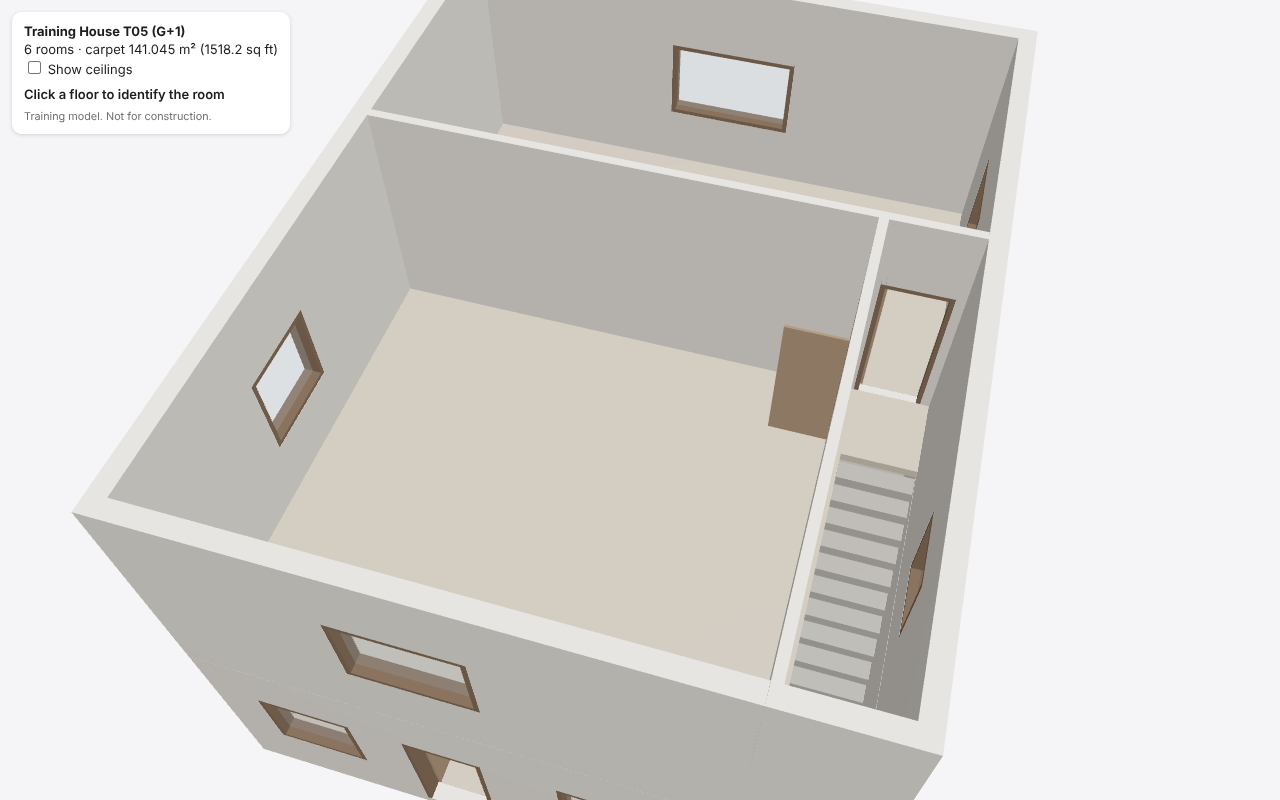
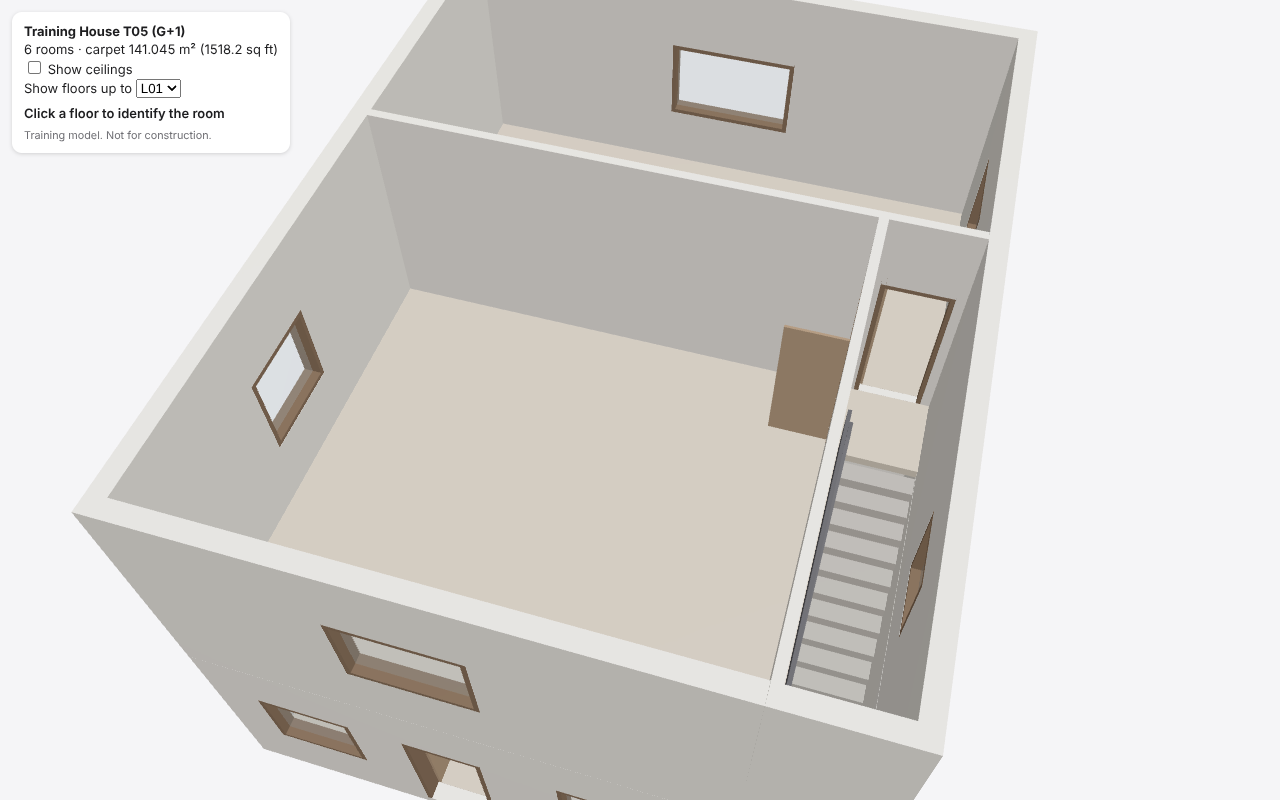
Stair balustrades on every edge with a drop; viewer floor selector
Panels 50 mm x 0.90 m above the treads (stepped bottom, top along the
pitch) on stair edges not against a wall, not the foot and not the top
riser, plus between dog-leg flights without a well. Walk tests add a
line out over each drop (T05 31/31, T06 37/37; none pass without the
panels). The viewer gets a floor selector (?upto=L00) and the browser
check a dollhouse per lower storey. 85 tests.

Claude-Session: https://claude.ai/code/session_01BXg1nWSkXAdbFx49JcxH2B

Changed region(s): [[0.0, 0.0938, 0.1875, 0.1875], [0.625, 0.5312, 0.6875, 0.7812], [0.5938, 0.7812, 0.625, 0.8438]]

diff --git a/viewer/index.html b/viewer/index.html
@@ -25,11 +25,12 @@
   <b id="title">plan3d viewer</b>
   <div id="info">Loading…</div>
   <label><input type="checkbox" id="ceilings"> Show ceilings</label>
+  <div id="floorwrap" hidden><label>Show floors up to <select id="floor"></select></label></div>
   <div id="room">Click a floor to identify the room</div>
   <small>Training model. Not for construction.</small>
 </div>
 <script type="module">
-// Usage: index.html?model=<glb url>&manifest=<manifest.json url>&view=dollhouse|exterior
+// Usage: index.html?model=<glb url>&manifest=<manifest.json url>&view=dollhouse|exterior[&upto=L00]
 import * as THREE from 'three';
 import { GLTFLoader } from 'three/addons/loaders/GLTFLoader.js';
 import { OrbitControls } from 'three/addons/controls/OrbitControls.js';
@@ -73,10 +74,27 @@ gltf.scene.traverse(o => {
     transparent: o.material.transparent,
   });
 });
+// Multi-storey: show the levels up to the chosen one (mesh names start with the level id)
+const levelOf = o => o.name.split('_')[0];
+const levels = [...new Set(meshes.map(m => m.name.split('_')[0]))].sort();
+const shown = [];
+gltf.scene.traverse(o => o.isMesh && shown.push(o));
+const setUpTo = lvl => shown.forEach(o => (o.visible = levelOf(o) <= lvl &&
+                                          (!o.name.includes('_CEILING_') || document.getElementById('ceilings').checked)));
+if (levels.length > 1) {
+  const sel = document.getElementById('floor');
+  for (const l of levels) sel.add(new Option(l, l));
+  sel.value = q.get('upto') && levels.includes(q.get('upto')) ? q.get('upto') : levels.at(-1);
+  sel.onchange = () => { setUpTo(sel.value); render(); };
+  document.getElementById('floorwrap').hidden = false;
+}
 const setCeilings = on => ceilings.forEach(c => (c.visible = on));
-document.getElementById('ceilings').onchange = e => { setCeilings(e.target.checked); render(); };
+document.getElementById('ceilings').onchange = () => {
+  setUpTo(levels.length > 1 ? document.getElementById('floor').value : levels[0]); render();
+};
 setCeilings(view === 'exterior');
 document.getElementById('ceilings').checked = view === 'exterior';
+if (levels.length > 1) setUpTo(document.getElementById('floor').value);
 
 const box = new THREE.Box3().setFromObject(gltf.scene);
 const size = box.getSize(new THREE.Vector3()), center = box.getCenter(new THREE.Vector3());

diff --git a/plan3d/stairs.py b/plan3d/stairs.py
@@ -221,3 +221,80 @@ def guard_region(sg: StairGeom, up_layout) -> Polygon:
     arrival = Polygon([t - a, t + a, t + a + out, t - a + out])
     floor = unary_union(list(up_layout.room_regions.values()))
     return band.difference(arrival).difference(up_layout.footprint).intersection(floor)
+
+
+def surface_z(sg: StairGeom, xy) -> float | None:
+    """Height (absolute) of the stair's walking surface at a plan point, or
+    None outside the stair."""
+    p = Point(xy)
+    for f in sg.flights:
+        if sg.flight_rect(f).buffer(1e-9).contains(p):
+            s = float(np.dot(np.asarray(xy) - f.foot, f.u))
+            k = min(max(int(s // sg.going), 0), f.risers - 2)
+            return sg.ffl + sg.riser * (f.first + k + 1)
+    if sg.landing_rect is not None and sg.landing_rect.buffer(1e-9).contains(p):
+        return sg.ffl + sg.riser * sg.flights[1].first
+    return None
+
+
+def balustrade_edges(sg: StairGeom, low_layout) -> list[tuple[np.ndarray, np.ndarray, np.ndarray]]:
+    """(start, end, inward normal) of every stair edge with a drop beside it:
+    outline edges that are not against a wall, not the foot of the first
+    flight and not the top riser; and, on a dog-leg without a well, the side
+    of the second flight above the first."""
+    edges = []
+    poly = sg.footprint.simplify(0)
+    ring = [np.asarray(c) for c in poly.exterior.coords]
+    entry = LineString([sg.foot - sg.across * sg.width / 2, sg.foot + sg.across * sg.width / 2])
+    a = np.array([-sg.top_u[1], sg.top_u[0]]) * sg.width / 2
+    arrival = LineString([sg.top - a, sg.top + a])
+    for p, q in zip(ring, ring[1:]):
+        m, d = (p + q) / 2, (q - p) / np.linalg.norm(q - p)
+        n = np.array([-d[1], d[0]])
+        if not poly.contains(Point(m + n * 0.01)):
+            n = -n                                         # n points into the stair
+        if entry.distance(Point(m)) < 1e-6 or arrival.distance(Point(m)) < 1e-6:
+            continue
+        samples = [p + (q - p) * t for t in (0.1, 0.5, 0.9)]
+        if all(low_layout.footprint.buffer(1e-6).contains(Point(x - n * 0.05)) for x in samples):
+            continue                                       # a wall closes this side
+        edges.append((p, q, n))
+    if sg.kind == "dogleg" and sg.gap == 0:
+        f2 = sg.flights[1]
+        n_in = sg.across * sg.side                     # from the first flight into the second
+        edge = f2.foot - n_in * sg.width / 2
+        edges.append((edge, edge + f2.u * sg.flight_run(f2), n_in))
+    return edges
+
+
+def balustrades(sg: StairGeom, low_layout) -> list[tuple[str, m3d.Manifold]]:
+    """A GUARD_THICKNESS panel just inside each edge with a drop, standing on
+    the treads (stepped bottom) and GUARD_HEIGHT above them along the pitch.
+    One solid per edge (no unions, L-026); where two edges meet, the later
+    one stops short of the corner so they do not overlap."""
+    out, ends = [], []
+    for i, (p, q, n) in enumerate(balustrade_edges(sg, low_layout)):
+        length = float(np.linalg.norm(q - p))
+        d = (q - p) / length
+        t0 = GUARD_THICKNESS if any(np.allclose(p, e) for e in ends) else 0.0
+        t1 = length - (GUARD_THICKNESS if any(np.allclose(q, e) for e in ends) else 0.0)
+        ends += [p, q]
+        cuts = {t0, t1}
+        for f in sg.flights:
+            for k in range(f.risers):
+                cuts.add(float(np.dot(f.foot + f.u * sg.going * k - p, d)))
+        cuts = sorted(t for t in cuts if t0 - 1e-9 <= t <= t1 + 1e-9)
+        zs = [surface_z(sg, p + d * (a + b) / 2 + n * GUARD_THICKNESS / 2) for a, b in zip(cuts, cuts[1:])]
+        if not zs or any(z is None for z in zs):
+            continue
+        z0 = sg.ffl
+        bottom = [pt for (a, b), z in zip(zip(cuts, cuts[1:]), zs) for pt in ((a, z - z0), (b, z - z0))]
+        top = [(t, max(zs[max(j - 1, 0)], zs[min(j, len(zs) - 1)]) - z0 + GUARD_HEIGHT)
+               for j, t in enumerate(cuts)]
+        profile = m3d.CrossSection([np.asarray(bottom + top[::-1])], m3d.FillRule.EvenOdd)
+        panel = m3d.Manifold.extrude(profile, GUARD_THICKNESS)
+        # local (along edge, up, inward) -> world
+        out.append((f"_{i + 1}", panel.transform(np.array([[d[0], 0.0, n[0], p[0]],
+                                                           [d[1], 0.0, n[1], p[1]],
+                                                           [0.0, 1.0, 0.0, z0]]))))
+    return out

diff --git a/tests/test_stairs.py b/tests/test_stairs.py
@@ -187,3 +187,22 @@ def test_stair_opening_is_guarded_except_where_people_step_off(t06):
     assert probes and all(r["ok"] for r in walktests.run(probes, parts))
     unguarded = [p for p in parts if p.role != "guard"]
     assert not any(r["ok"] for r in walktests.run(probes, unguarded))              # each probe needs the rail
+
+
+def test_stair_sides_with_a_drop_get_balustrades(t05, t06):
+    from plan3d import walktests
+    for raw, expected in ((t05, {"_1"}), (t06, {"_1", "_2", "_3"})):
+        plan = Plan(raw)
+        layouts = {lid: plan2d.build_layout(plan, lid) for lid in plan.levels}
+        sg = stairs.build(plan)["S01"]
+        panels = dict(stairs.balustrades(sg, layouts["L00"]))
+        assert set(panels) == expected                     # not on wall sides, the foot or the top riser
+        parts = build_parts(plan, layouts)
+        probes = [t for t in walktests.generate(plan, layouts) if t["name"].startswith("balustrade:")]
+        assert len(probes) == len(expected) and all(r["ok"] for r in walktests.run(probes, parts))
+        bare = [p for p in parts if "_BALUSTRADE_" not in p.name]
+        assert not any(r["ok"] for r in walktests.run(probes, bare))
+    # T06: the panel between the flights stands on the second flight, 0.9 m above its treads
+    inner = trimesh.Trimesh(*_mesh(panels["_3"]))
+    assert inner.is_watertight and np.allclose(inner.bounds[:, :2], [[7.77, 3.0], [7.82, 5.0]])
+    assert inner.bounds[1][2] == pytest.approx(0.175 * 17 + stairs.GUARD_HEIGHT)

diff --git a/plan3d/walktests.py b/plan3d/walktests.py
@@ -73,6 +73,11 @@ def generate(plan: Plan, layouts: dict) -> list[dict]:
                 tests.append({"name": f"guard:{sg.id}.{j + 1}", "kind": "guard",
                               "start": [*(m + n * (stairs.GUARD_THICKNESS + 0.05)), z],
                               "end": [*(m - n * 0.3), z], "expect_hit": True})
+        for j, (p, q, n) in enumerate(stairs.balustrade_edges(sg, layouts[sg.level])):
+            m = (p + q) / 2                                # from the stair out over the drop
+            z = stairs.surface_z(sg, m + n * 0.3) + GUARD_PROBE_Z
+            tests.append({"name": f"balustrade:{sg.id}.{j + 1}", "kind": "guard",
+                          "start": [*(m + n * 0.3), z], "end": [*(m - n * 0.3), z], "expect_hit": True})
         flights = sg.flights
         for i, f in enumerate(flights):                # one line per flight, chest height above the steps
             z0 = sg.ffl + sg.riser * f.first

diff --git a/plan3d/mesh3d.py b/plan3d/mesh3d.py
@@ -148,6 +148,9 @@ def build_parts(plan: Plan, layouts: dict[str, LevelLayout]) -> list[Part]:
             if sg.level == level_id:
                 for suffix, lane in stairs.solids(sg):
                     parts.append(Part(f"{level_id}_STAIR_{sg.id}{suffix}", "stair", level_id, _to_trimesh(lane), sg.id))
+                for suffix, panel in stairs.balustrades(sg, lay):
+                    parts.append(Part(f"{level_id}_BALUSTRADE_{sg.id}{suffix}", "guard", level_id,
+                                      _to_trimesh(panel), sg.id))
             if sg.to_level == level_id:
                 guard = _prism(stairs.guard_region(sg, lay), ffl, ffl + stairs.GUARD_HEIGHT)
                 if not guard.is_empty():

diff --git a/docs/QUALITY_REPORTS.md b/docs/QUALITY_REPORTS.md
@@ -302,7 +302,7 @@ Carpet area 105.862 m² (1,139.5 sq ft) on a 120 m² built-up footprint.
 | FBX (Q17) | Pass, cm, `M_Stair` |
 | Single-level plans T01–T04 | GLB byte-identical to before the change |
 | Mutation tests | Level not on the one below → FAIL; flight into a wall → FAIL; landing into a wall → reported; 210 mm risers → WARN; stair removed → upper rooms unreachable (Q09 FAIL); a beam over the flight → Q22 FAIL |
-| Tests | 84 pass |
+| Tests | 85 pass |
 
 ### Dog-leg stairs (T06)
 | Check | Result |
@@ -319,7 +319,9 @@ Carpet area 105.862 m² (1,139.5 sq ft) on a 120 m² built-up footprint.
 | T06 | Rail on three sides; a line at 0.5 m across the second flight's top is clear, beside it hits `L01_GUARD_S01`. Walk tests 34/34 (4 guard lines) |
 | T05 | Walk tests 30/30 (2 guard lines) |
 | Mutation | Remove the rail → every guard line fails |
-| Not covered | No balustrade along the open side of a flight, or between dog-leg flights without a well |
+| Balustrades | A 50 mm panel 0.90 m above the treads (bottom stepped, top along the pitch) on every stair edge with a drop: not against a wall, not the foot, not the top riser; on a dog-leg without a well, also on the second flight above the first. T05: 1 panel (open west side); T06: 3 (west side and landing edge, landing far edge, between flights) |
+| Walk tests | T05 31/31, T06 37/37; a line at 0.5 m out over each drop must hit its panel; without the panels none do |
+| Viewer | New floor selector (`?upto=L00`); the browser check adds a dollhouse view per lower storey (`browser_dollhouse_L00.png`) |
 
 ### Defects found and fixed during development
 - Unioning the two dog-leg flights into one solid left 8 sliver faces and a

diff --git a/docs/TASK_TRACKER.md b/docs/TASK_TRACKER.md
@@ -18,7 +18,7 @@ verified without spending money.
 | Pri | ID | Task | Lead → Reviewer | AI / Human | Status |
 |---|---|---|---|---|---|
 | 0 | T-012 | **First Unreal import of T01**: run `import_plan3d.py` and check size, north, collision and materials (PLAN3D.md checklist) | AD-11 → AD-12 | AI via the founder's PC session (Remote Control + Python Remote Execution) | VERIFIED (QR-005, QR-007): import, size, north, PlayerStart, materials/collision, v2 frames/doors exact to 0.0 cm, walk test 26/26 in Unreal |
-| 1 | T-014 | Multi-level stacking (shared slabs, straight stairs, stair openings, Q21/Q22) and roof parapet | AD-13 → AD-05 | AI (parapet needs D-091) | Stacking, straight and dog-leg stairs IMPLEMENTED (QR-008, T05/T06 G+1); not yet in Unreal. Parapet BLOCKED on D-091; guard rails around openings IMPLEMENTED; flight balustrades PLANNED |
+| 1 | T-014 | Multi-level stacking (shared slabs, straight stairs, stair openings, Q21/Q22) and roof parapet | AD-13 → AD-05 | AI (parapet needs D-091) | Stacking, straight and dog-leg stairs IMPLEMENTED (QR-008, T05/T06 G+1); not yet in Unreal. Parapet BLOCKED on D-091; guard rails and stair balustrades IMPLEMENTED |
 | 1 | T-015 | Unreal: sphere-sweep clear-width test (Q20) and T05 import | AD-11 → AD-12 | AI via PC session | BLOCKED: the PC session's safety check refuses to write scripts sent from this session; needs the founder's one-time approval |
 | 2 | T-002 | Web GLB optimization step (Draco/meshopt + KTX2, size budget) plus a headless load test | AD-18 → AD-34 | AI | PLANNED |
 | 3 | T-003 | Define target-device list and measure H01 on real phones (load time, FPS) | AD-34 → AD-33 | Human measures, AI analyses | PLANNED |

diff --git a/README.md b/README.md
@@ -16,7 +16,7 @@ All tested on fictional training plans only. See [docs/PLAN3D.md](docs/PLAN3D.md
 python3 -m venv .venv && .venv/bin/pip install -r requirements.txt
 .venv/bin/python -m plan3d build projects/t01/plan.json -o out/t01          # plan -> model
 .venv/bin/python -m plan3d read drawing.png -o drafts/x --known-width 12 --build   # drawing -> draft -> model
-.venv/bin/python -m pytest -q                                               # 84 tests
+.venv/bin/python -m pytest -q                                               # 85 tests
 .venv/bin/python -m bench.run                                               # reader benchmark
 .venv/bin/pip install -r requirements-fbx.txt                               # optional: Blender for FBX
 .venv/bin/python -m plan3d build projects/t01/plan.json -o out/t01 --fbx    # + Unreal bundle in out/t01/unreal
@@ -27,7 +27,7 @@ python3 -m venv .venv && .venv/bin/pip install -r requirements.txt
 | `plan3d/` | Generator: schema, 2D layout, 3D solids, QA, reports |
 | `projects/t01…t06/` | Fictional training plans (T03, T04 = reader holdouts; T05, T06 = two storeys) |
 | `bench/` | Renders plans as test drawings and scores the reader |
-| `tests/` | 84 tests: QA checks fail on their defects; reader hard cases; FBX; stairs |
+| `tests/` | 85 tests: QA checks fail on their defects; reader hard cases; FBX; stairs |
 | `unreal/` | Unreal Editor import and walk-test scripts (verified in UE 5.8) |
 | `viewer/` | three.js r186 viewer + headless-browser load check |
 | `docs/evidence/` | Saved QA evidence referenced by QUALITY_REPORTS.md |

diff --git a/docs/PLAN3D.md b/docs/PLAN3D.md
@@ -101,7 +101,9 @@ reached through the stair (Q09). A dog-leg climbs half its risers (rounded
 up), crosses the half landing and climbs back beside the first flight; its
 whole footprint is opened in the floor above. A 0.90 m guard rail
 (`GUARD`, `M_Guard`) closes every open edge of a stair opening except the
-top riser; walk tests check each guarded edge. See `projects/t05` (G+1,
+top riser, and balustrade panels (`BALUSTRADE`) stand on every stair edge
+with a drop beside it; walk tests check each one. The viewer's floor
+selector (`?upto=L00`) shows a lower storey on its own. See `projects/t05` (G+1,
 straight) and `projects/t06` (G+1, dog-leg).
 
 **Dimension check kinds:** `param` (a typed value must equal the register),
@@ -153,7 +155,6 @@ Builds are deterministic: the same plan gives a byte-identical GLB.
 ## Known limits (v0.1)
 
 See [KNOWN_LIMITATIONS.md](KNOWN_LIMITATIONS.md#plan3d-v01). In short:
-straight walls; straight and dog-leg stairs only; guard rails around stair openings but no
-flight balustrades; no roof
+straight walls; straight and dog-leg stairs only; solid guard panels, no separate handrails; no roof
 parapet or furniture; one material per element type; plan input is typed
 by hand (no PDF/CAD reading yet).

diff --git a/docs/KNOWN_LIMITATIONS.md b/docs/KNOWN_LIMITATIONS.md
@@ -35,7 +35,7 @@ in this repo until the founder adopts it themselves.
 |---|---|
 | Stacked levels need matching outlines in the plan file | Each level is typed separately; levels must stack exactly (Q21). Tested on two fictional G+1 plans (T05, T06) only |
 | Straight and dog-leg stairs only, solid to the floor | No quarter-turn/L, winders, spiral stairs, open risers or nosings; space under the stair is filled; a dog-leg's whole footprint is opened in the floor above |
-| Guard rails only around stair openings (0.90 m, training value) | No handrail or balustrade along the open side of a flight or between dog-leg flights; no terrace or balcony parapets |
+| Guards are solid 50 mm panels, 0.90 m high (training values) | Around stair openings and on stair edges with a drop; no separate handrails, balusters or glass; no terrace or balcony parapets; heights not checked against NBC/UDCPR |
 | Stair thresholds (riser ≤ 190 mm, going ≥ 250 mm, 2R+G 550–700 mm) are training values | Not checked against NBC/UDCPR; WARN only |
 | Straight walls only | No curved walls or columns |
 | Plan input typed by hand | No PDF/DWG/image reading yet (T-006). Typing errors are caught only where the register checks them |

diff --git a/docs/evidence/QR-008/t05_qa_report.md b/docs/evidence/QR-008/t05_qa_report.md
@@ -53,11 +53,11 @@ Visualization model only. Not for construction. Automated checks are sanity chec
 
 ### Q13 No coplanar overlapping faces between parts (z-fighting)
 
-- [INFO] 119 face pair(s) where touching solids meet back to back (hidden, expected)
+- [INFO] 157 face pair(s) where touching solids meet back to back (hidden, expected)
 
 ### Q19 Walk tests: doors and arches passable, walls and glass blocking
 
-- [INFO] 30/30 probes as expected
+- [INFO] 31/31 probes as expected
 
 ### Q20 Clear walking width through doors and arches
 

diff --git a/docs/evidence/QR-008/t06_qa_report.md b/docs/evidence/QR-008/t06_qa_report.md
@@ -53,11 +53,11 @@ Visualization model only. Not for construction. Automated checks are sanity chec
 
 ### Q13 No coplanar overlapping faces between parts (z-fighting)
 
-- [INFO] 125 face pair(s) where touching solids meet back to back (hidden, expected)
+- [INFO] 163 face pair(s) where touching solids meet back to back (hidden, expected)
 
 ### Q19 Walk tests: doors and arches passable, walls and glass blocking
 
-- [INFO] 34/34 probes as expected
+- [INFO] 37/37 probes as expected
 
 ### Q20 Clear walking width through doors and arches
 
